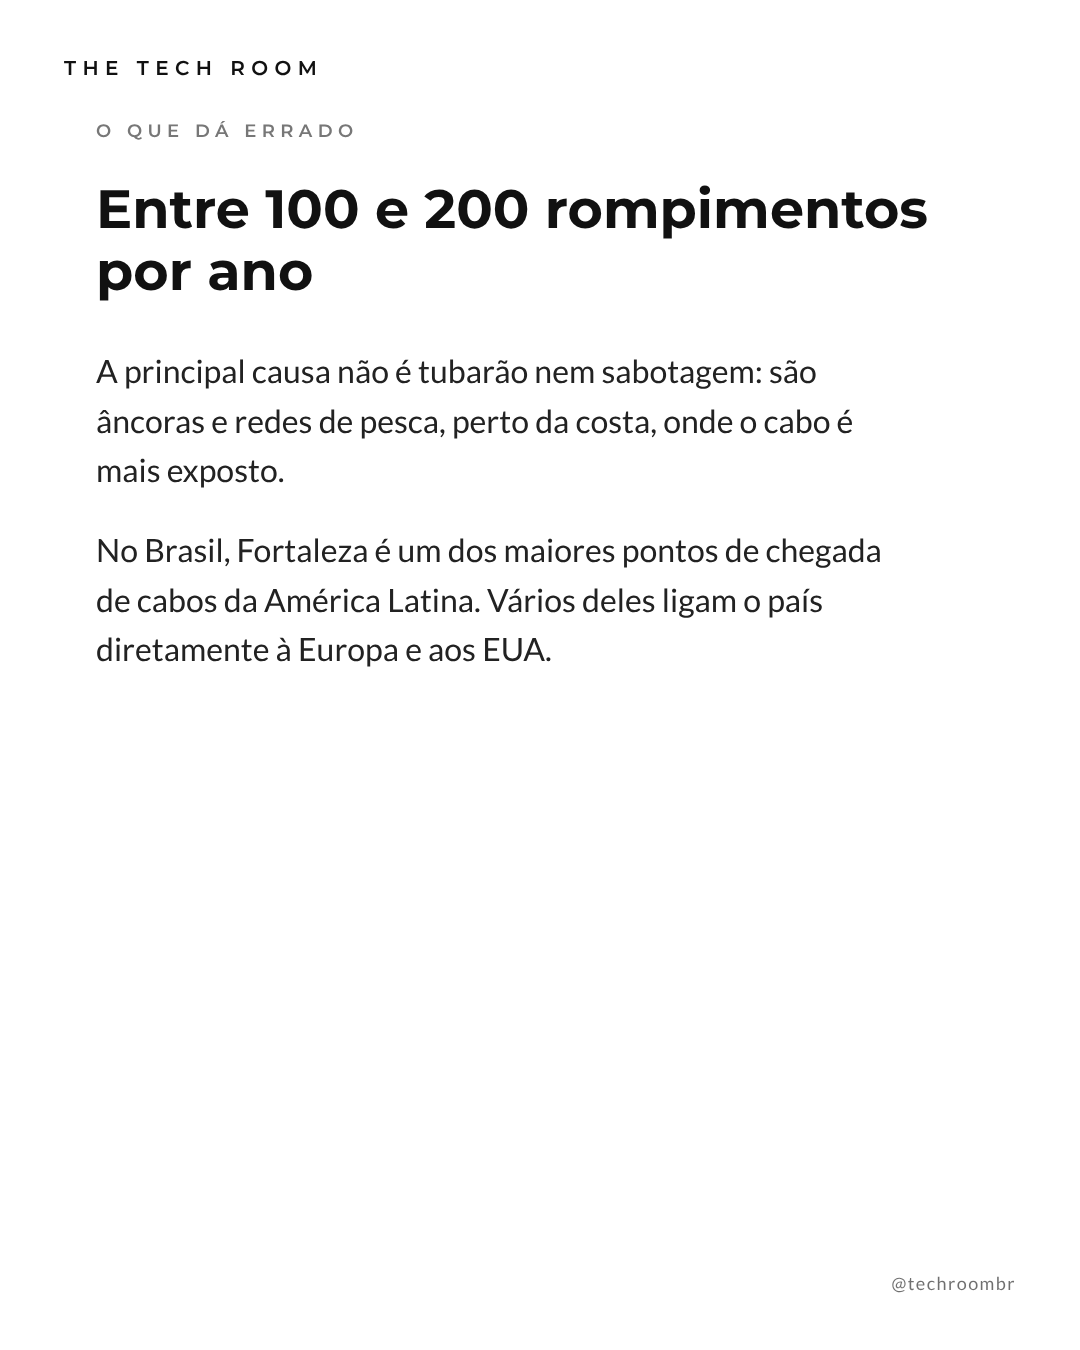
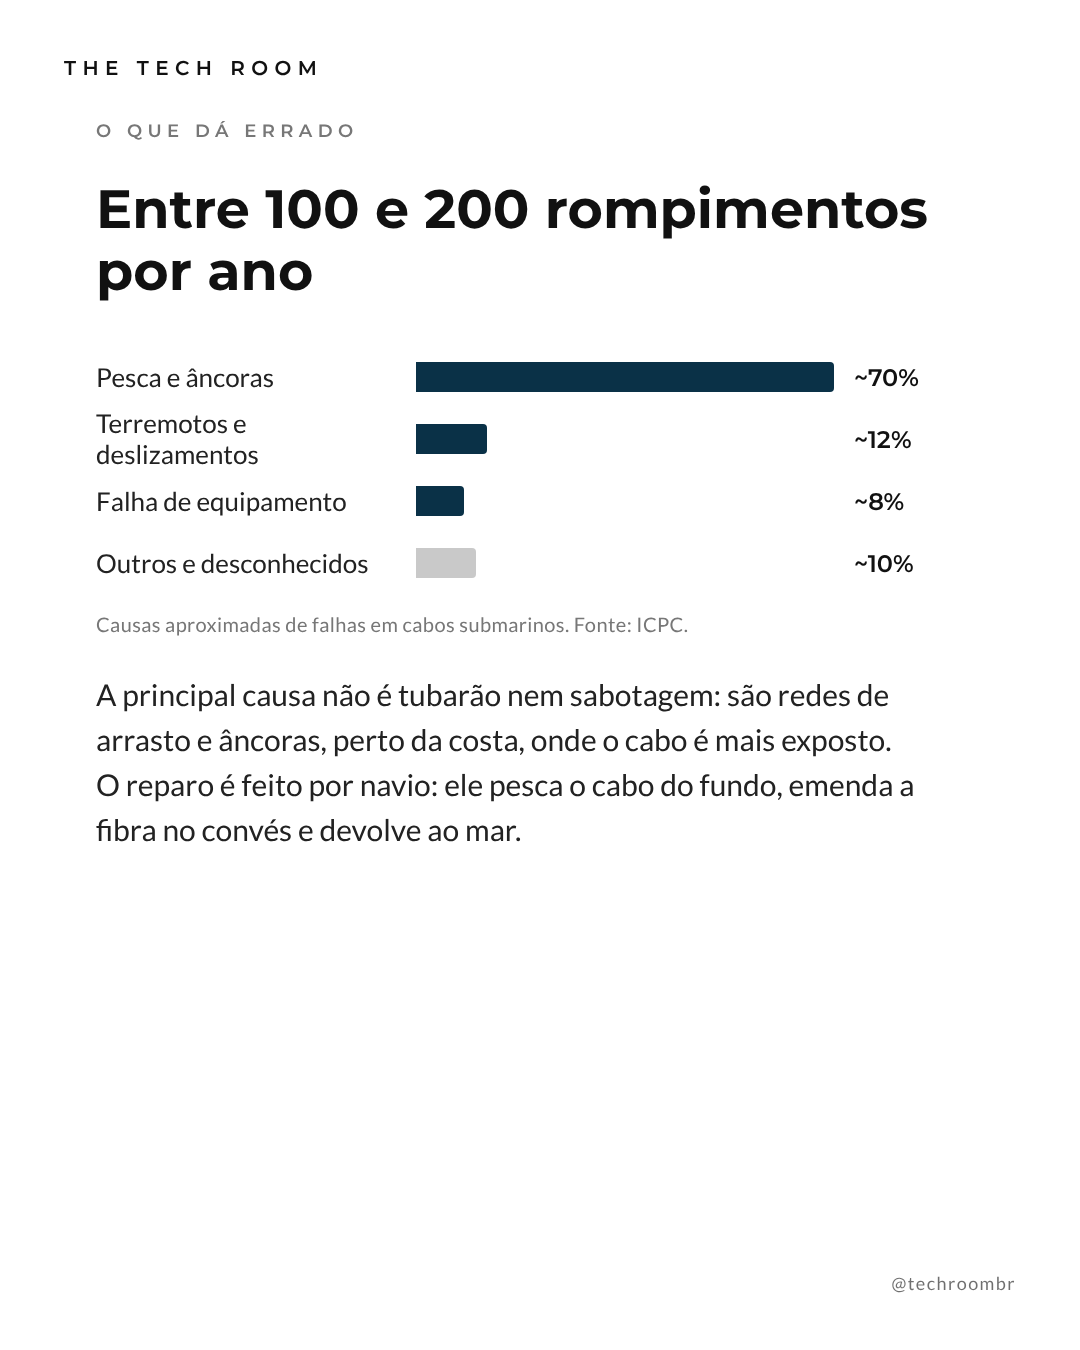
motor: blocos informativos (número, gráfico, passos, linha do tempo, exemplo, comparação) + post expandido
Claude-Session: https://claude.ai/code/session_01DFoqXPsg4WtmKarBEKT4dN

Changed region(s): [[0.0917, 0.2489, 0.8556, 0.6222]]

diff --git a/engine/natgeo.html b/engine/natgeo.html
@@ -67,12 +67,62 @@
     color: #222;
   }
   .inner .fig {
-    width: 888px; height: 560px; margin: 24px 0 40px;
+    width: 888px; height: 500px; margin: 16px 0 36px;
     background-size: cover; background-position: center;
   }
   .inner .cap {
     font-size: 20px; color: #777; letter-spacing: .04em; margin-top: -24px; margin-bottom: 40px;
   }
+
+  /* ---------- BLOCOS INFORMATIVOS (gráfico, número, linha do tempo, exemplo, passos, comparação) ---------- */
+  :root { --accent: #1F4E79; --ink: #111; --mute: #777; --rule: #DDD; }
+  .inner.dense p { font-size: 30px; line-height: 1.5; margin-bottom: 26px; }
+  .inner ul.list { list-style: none; max-width: 820px; margin-bottom: 26px; }
+  .inner ul.list li { font-size: 30px; line-height: 1.45; padding: 14px 0 14px 44px; position: relative; color: #222; border-top: 1px solid var(--rule); }
+  .inner ul.list li:last-child { border-bottom: 1px solid var(--rule); }
+  .inner ul.list li::before { content: ""; position: absolute; left: 6px; top: 32px; width: 14px; height: 14px; background: var(--accent); }
+
+  /* número-herói */
+  .stat .big { font-family: "Montserrat"; font-weight: 700; font-size: 190px; line-height: .95; letter-spacing: -.02em; color: var(--accent); margin: 10px 0 8px; }
+  .stat .big small { font-size: 90px; letter-spacing: 0; }
+  .stat .label { font-family: "Montserrat"; font-weight: 600; font-size: 26px; letter-spacing: .06em; text-transform: uppercase; color: var(--ink); margin-bottom: 44px; }
+
+  /* gráfico de barras horizontais */
+  .chart { max-width: 888px; margin: 8px 0 36px; }
+  .chart .row { display: grid; grid-template-columns: 300px 1fr 130px; align-items: center; gap: 20px; height: 62px; }
+  .chart .row .name { font-size: 26px; color: #222; line-height: 1.2; }
+  .chart .row .bar { height: 30px; background: var(--accent); border-radius: 0 4px 4px 0; }
+  .chart .row.other .bar { background: #C9C9C9; }
+  .chart .row .val { font-family: "Montserrat"; font-weight: 600; font-size: 24px; color: var(--ink); }
+  .chart .note { font-size: 20px; color: var(--mute); margin-top: 18px; letter-spacing: .02em; }
+
+  /* linha do tempo */
+  .timeline { max-width: 860px; margin-bottom: 20px; }
+  .timeline .item { display: grid; grid-template-columns: 170px 1fr; gap: 24px; padding: 22px 0; border-top: 1px solid var(--rule); }
+  .timeline .item:last-child { border-bottom: 1px solid var(--rule); }
+  .timeline .when { font-family: "Montserrat"; font-weight: 700; font-size: 30px; color: var(--accent); line-height: 1.3; }
+  .timeline .what { font-size: 28px; line-height: 1.4; color: #222; }
+
+  /* exemplo concreto */
+  .example { border-left: 8px solid var(--accent); padding: 8px 0 8px 36px; max-width: 860px; margin: 8px 0 40px; }
+  .example .tag { font-family: "Montserrat"; font-weight: 600; font-size: 17px; letter-spacing: .3em; text-transform: uppercase; color: var(--accent); margin-bottom: 14px; }
+  .example p { font-size: 30px; line-height: 1.5; color: #222; margin-bottom: 14px; }
+  .example p:last-child { margin-bottom: 0; }
+
+  /* passos numerados */
+  .steps { max-width: 860px; margin-bottom: 20px; }
+  .steps .step { display: grid; grid-template-columns: 90px 1fr; gap: 20px; padding: 22px 0; border-top: 1px solid var(--rule); align-items: start; }
+  .steps .step:last-child { border-bottom: 1px solid var(--rule); }
+  .steps .n { font-family: "Montserrat"; font-weight: 700; font-size: 44px; color: var(--accent); line-height: 1; }
+  .steps .t { font-family: "Montserrat"; font-weight: 600; font-size: 27px; color: var(--ink); margin-bottom: 6px; }
+  .steps .d { font-size: 27px; line-height: 1.4; color: #333; }
+
+  /* comparação lado a lado */
+  .compare { display: grid; grid-template-columns: 1fr 1fr; gap: 40px; max-width: 888px; margin: 8px 0 36px; }
+  .compare .col { border-top: 4px solid var(--accent); padding-top: 22px; }
+  .compare .col.b { border-top-color: #BBB; }
+  .compare .col h3 { font-family: "Montserrat"; font-weight: 700; font-size: 28px; margin-bottom: 18px; color: var(--ink); }
+  .compare .col p { font-size: 26px; line-height: 1.45; color: #222; margin-bottom: 14px; max-width: none; }
 
   /* ---------- FONTES ---------- */
   .sources { background: #FFFFFF; color: #111; padding: 120px 96px 0; }

diff --git a/engine/render_natgeo.py b/engine/render_natgeo.py
@@ -1,90 +1,139 @@
 #!/usr/bin/env python3
 """
 Renderizador NatGeo — The Tech Room
-Uso: python3 engine/render_natgeo.py posts/xx.json
-Foto é a página. Texto mínimo. Sem artifício.
+Uso: python3 engine/render_natgeo.py posts/<slug>/post.json [...]
+Saída: posts/<slug>/01.png … NN.png, legenda.txt, _prancha.jpg
+
+Tipos de página (campo "type"):
+  cover     photo, title, dek
+  inner     kicker, heading, [photo, caption], body[], [bullets[]], [example{tag,text[]}]
+  stat      kicker, heading?, big, unit?, label, body[]
+  chart     kicker, heading, bars[{name,value,label?,other?}], note?, body[]
+  timeline  kicker, heading, items[{when,what}], body[]
+  steps     kicker, heading, steps[{title,text}], body[]
+  compare   kicker, heading, a{title,lines[]}, b{title,lines[]}, body[]
+  sources   items[{who,what}]
+A cor de destaque (--accent) é extraída da foto da capa; pode ser fixada em post["accent"].
 """
-import base64, json, mimetypes, sys
+import base64, colorsys, json, mimetypes, sys
 from html import escape
 from pathlib import Path
 from playwright.sync_api import sync_playwright
+from PIL import Image
 
 ROOT = Path(__file__).resolve().parent.parent
 TPL = (ROOT / "engine" / "natgeo.html").read_text(encoding="utf-8")
 
+def path(p):
+    p = Path(p); return p if p.is_absolute() else ROOT / p
+
 def uri(p):
-    p = Path(p); p = p if p.is_absolute() else ROOT / p
-    mime = mimetypes.guess_type(p.name)[0] or "image/jpeg"
+    p = path(p); mime = mimetypes.guess_type(p.name)[0] or "image/jpeg"
     return f"data:{mime};base64,{base64.b64encode(p.read_bytes()).decode()}"
 
+def accent_from(photo):
+    """Cor dominante saturada da foto, escurecida para contrastar com papel branco."""
+    im = Image.open(path(photo)).convert("RGB").resize((80, 80))
+    best, score = (31, 78, 121), -1
+    for cnt, (r, g, b) in im.getcolors(80 * 80):
+        h, l, s = colorsys.rgb_to_hls(r / 255, g / 255, b / 255)
+        sc = cnt * (s ** 1.5) * (1 - abs(l - .45))
+        if s > .25 and .15 < l < .75 and sc > score:
+            best, score = (r, g, b), sc
+    h, l, s = colorsys.rgb_to_hls(*[c / 255 for c in best])
+    l = min(l, .34); s = min(max(s, .45), .75)
+    r, g, b = colorsys.hls_to_rgb(h, l, s)
+    return "#%02x%02x%02x" % (int(r * 255), int(g * 255), int(b * 255))
+
+# ---------- blocos ----------
+def P(lines): return "".join(f"<p>{escape(t)}</p>" for t in lines or [])
+def K(s): return f'<div class="kicker">{escape(s["kicker"])}</div>' if s.get("kicker") else ""
+def H(s): return f'<h2>{escape(s["heading"])}</h2>' if s.get("heading") else ""
+def frame(post, cls, body):
+    return f'<div class="page inner dense {cls}"><div class="masthead">{escape(post["masthead"])}</div><div class="content">{body}</div><div class="handle">{escape(post["handle"])}</div></div>'
+
 def cover(s, post):
-    return f'''
-<div class="page cover">
+    return f'''<div class="page cover">
   <div class="photo" style="background-image:url('{uri(s["photo"])}')"></div>
   <div class="masthead">{escape(post["masthead"])}</div>
-  <div class="text">
-    <h1>{escape(s["title"])}</h1>
-    <div class="dek">{escape(s.get("dek",""))}</div>
-  </div>
-  <div class="handle">{escape(post["handle"])}</div>
-</div>'''
+  <div class="text"><h1>{escape(s["title"])}</h1><div class="dek">{escape(s.get("dek",""))}</div></div>
+  <div class="handle">{escape(post["handle"])}</div></div>'''
 
 def inner(s, post):
     fig = f'<div class="fig" style="background-image:url(\'{uri(s["photo"])}\')"></div>' if s.get("photo") else ""
     cap = f'<div class="cap">{escape(s["caption"])}</div>' if s.get("caption") else ""
-    body = "".join(f"<p>{escape(t)}</p>" for t in s.get("body", []))
-    kicker = f'<div class="kicker">{escape(s["kicker"])}</div>' if s.get("kicker") else ""
-    return f'''
-<div class="page inner">
-  <div class="masthead">{escape(post["masthead"])}</div>
-  {kicker}
-  <h2>{escape(s["heading"])}</h2>
-  {fig}{cap}
-  {body}
-  <div class="handle">{escape(post["handle"])}</div>
-</div>'''
+    ul = ("<ul class='list'>" + "".join(f"<li>{escape(t)}</li>" for t in s["bullets"]) + "</ul>") if s.get("bullets") else ""
+    ex = ""
+    if s.get("example"):
+        e = s["example"]
+        ex = f'<div class="example"><div class="tag">{escape(e.get("tag","Exemplo"))}</div>{P(e.get("text"))}</div>'
+    return frame(post, "", K(s) + H(s) + fig + cap + P(s.get("body")) + ul + ex + P(s.get("after")))
+
+def stat(s, post):
+    unit = f'<small>{escape(s["unit"])}</small>' if s.get("unit") else ""
+    return frame(post, "stat", K(s) + H(s) + f'<div class="big">{escape(s["big"])}{unit}</div><div class="label">{escape(s.get("label",""))}</div>' + P(s.get("body")))
+
+def chart(s, post):
+    bars = s["bars"]; mx = max(b["value"] for b in bars) or 1
+    rows = "".join(
+        f'<div class="row{" other" if b.get("other") else ""}"><div class="name">{escape(b["name"])}</div>'
+        f'<div><div class="bar" style="width:{max(2, b["value"] / mx * 100):.1f}%"></div></div>'
+        f'<div class="val">{escape(b.get("label", str(b["value"])))}</div></div>' for b in bars)
+    note = f'<div class="note">{escape(s["note"])}</div>' if s.get("note") else ""
+    return frame(post, "", K(s) + H(s) + f'<div class="chart">{rows}{note}</div>' + P(s.get("body")))
+
+def timeline(s, post):
+    items = "".join(f'<div class="item"><div class="when">{escape(i["when"])}</div><div class="what">{escape(i["what"])}</div></div>' for i in s["items"])
+    return frame(post, "", K(s) + H(s) + f'<div class="timeline">{items}</div>' + P(s.get("body")))
+
+def steps(s, post):
+    st = "".join(f'<div class="step"><div class="n">{n}</div><div><div class="t">{escape(i["title"])}</div><div class="d">{escape(i["text"])}</div></div></div>' for n, i in enumerate(s["steps"], 1))
+    return frame(post, "", K(s) + H(s) + f'<div class="steps">{st}</div>' + P(s.get("body")))
+
+def compare(s, post):
+    def col(c, cls): return f'<div class="col {cls}"><h3>{escape(c["title"])}</h3>{P(c.get("lines"))}</div>'
+    return frame(post, "", K(s) + H(s) + f'<div class="compare">{col(s["a"], "a")}{col(s["b"], "b")}</div>' + P(s.get("body")))
 
 def sources(s, post):
     items = "".join(f'<li>{escape(i["who"])}<span>{escape(i.get("what",""))}</span></li>' for i in s["items"])
-    return f'''
-<div class="page sources">
-  <div class="masthead">{escape(post["masthead"])}</div>
-  <div class="kicker">Fontes</div>
-  <ul>{items}</ul>
-  <div class="handle">{escape(post["handle"])}</div>
-</div>'''
+    return f'<div class="page sources"><div class="masthead">{escape(post["masthead"])}</div><div class="kicker">Fontes</div><ul>{items}</ul><div class="handle">{escape(post["handle"])}</div></div>'
 
-B = {"cover": cover, "inner": inner, "sources": sources}
-
-def main(paths):
-    with sync_playwright() as p:
-        br = p.chromium.launch()
-        for path in paths:
-            post = json.loads(Path(path).read_text(encoding="utf-8"))
-            post.setdefault("masthead", "The Tech Room"); post.setdefault("handle", "@techroombr")
-            out = ROOT / "posts" / post["slug"]; out.mkdir(parents=True, exist_ok=True)
-            pg = br.new_page(viewport={"width": 1080, "height": 1350})
-            pngs = []
-            for n, s in enumerate(post["slides"], 1):
-                pg.set_content(TPL.replace("<!-- CONTENT -->", B[s["type"]](s, post)), wait_until="load")
-                pg.wait_for_timeout(150)
-                f = out / f"{n:02d}.png"; pg.screenshot(path=str(f)); pngs.append(f)
-                print(f"  {f.relative_to(ROOT)}")
-            pg.close()
-            if post.get("legenda"):
-                (out / "legenda.txt").write_text(post["legenda"], encoding="utf-8")
-            prancha(pngs, out / "_prancha.jpg")
-        br.close()
+B = {"cover": cover, "inner": inner, "stat": stat, "chart": chart, "timeline": timeline, "steps": steps, "compare": compare, "sources": sources}
 
 def prancha(pngs, dest):
-    """Prancha de conferência: todas as páginas lado a lado, reduzidas."""
-    from PIL import Image
     th = [Image.open(p).convert("RGB").resize((360, 450)) for p in pngs]
     cols = min(3, len(th)); rows = -(-len(th) // cols)
     sheet = Image.new("RGB", (cols * 360 + (cols + 1) * 12, rows * 450 + (rows + 1) * 12), "#E5E5E5")
     for i, im in enumerate(th):
         sheet.paste(im, (12 + (i % cols) * 372, 12 + (i // cols) * 462))
     sheet.save(dest, quality=88)
+
+def main(paths):
+    with sync_playwright() as p:
+        br = p.chromium.launch()
+        for pth in paths:
+            post = json.loads(Path(pth).read_text(encoding="utf-8"))
+            post.setdefault("masthead", "The Tech Room"); post.setdefault("handle", "@techroombr")
+            cov = next((s for s in post["slides"] if s["type"] == "cover"), None)
+            accent = post.get("accent") or (accent_from(cov["photo"]) if cov else "#1F4E79")
+            tpl = TPL.replace("--accent: #1F4E79", f"--accent: {accent}")
+            out = ROOT / "posts" / post["slug"]; out.mkdir(parents=True, exist_ok=True)
+            pg = br.new_page(viewport={"width": 1080, "height": 1350})
+            pngs = []
+            for n, s in enumerate(post["slides"], 1):
+                pg.set_content(tpl.replace("<!-- CONTENT -->", B[s["type"]](s, post)), wait_until="load")
+                pg.wait_for_timeout(150)
+                f = out / f"{n:02d}.png"; pg.screenshot(path=str(f)); pngs.append(f)
+                # alerta de estouro: conteúdo maior que a página
+                h = pg.evaluate("(()=>{const c=document.querySelector('.content');return c?c.getBoundingClientRect().bottom:0})()")
+                if h and h > 1235: print(f"  AVISO: página {n} estourou ({int(h)}px > 1235) — reduzir texto")
+                print(f"  {f.relative_to(ROOT)}")
+            pg.close()
+            if post.get("legenda"):
+                (out / "legenda.txt").write_text(post["legenda"], encoding="utf-8")
+            prancha(pngs, out / "_prancha.jpg")
+            print(f"  accent {accent}")
+        br.close()
 
 if __name__ == "__main__":
     main(sys.argv[1:])
